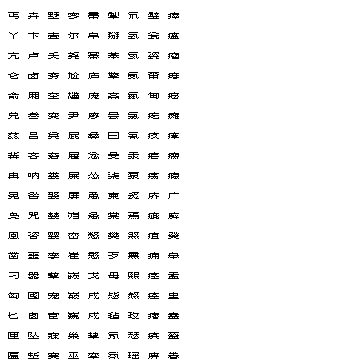
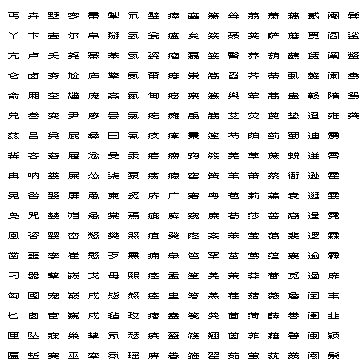
Update to final CCB data.

diff --git a/Scripts/FetchCCB.py b/Scripts/FetchCCB.py
@@ -6,7 +6,7 @@ def main():
     data = [
         ["专业丛东丝丢两严丧个丰临为丽举么义乌乐乒乓乔乖乘习乡书买于亏亚产亩亲仓众伞兔兰关兴养兽冈册军农冤凤凭凳击剪劈办务劳势匀匆华单卖卡卫卷厂厅历厉压厌厕厦县发变叠另吞启吴员咸哥哭售囊团园围图圆圈圣坚垄垒垦垫堡壳壶处备复头夸夹夺奋奖姜孕宁它实审宪宫宽宾寇寨寻导尘尝层岁岂岔岗岛崭已币帘带帮并广庆库应庙废开异弃弯录态怎总恳恶您悬惠惩愿截户扁拜拿摇攀敌敲旁无旱显晓晕晨暂术朵杀杂杰枣查桌桨梦步每毕毙毫毯气氧浆灭灵灾烫热爬爱爷爸爹牵犁狱瓣甩电疆疗疤疮疯疼痒痰瘦皂盏盐监盒盖盘离秃穷窑窗窜窝竖竞竟笋笔笨笼筐筛筝筹签简箩篮类粪粱紧絮继网罗罚罢罩羞羡翅耍聋聚肃肾臂舅舍艺节芒芬苍苏苹范茧茫荐荡荣药莲获菠萍萝营蓝蔬藏虏虑虽蠢衔袭裹见览觉贝贞负贡责贤货质贪贫贯贵贷贸费贺资赏赛赞赢赵赶趁趋趟车轰载辈辜辨辩辫边辽达迁过迈运还这进远违连迟迹适选递遗邀酱鉴铅长门闪闭问闯闲间闷闸闹闻阀阁阅阔隶雹雾霉霸靠页题风饰马驾骂鱼鲁鸟鹰黎黑齐齿龙龟",
          20, 21],
-        ["丐丫亢仑俞兑兹冀冉冕凫凰凿刁匈匕匣匾卉卞卢卤厢叁吕吝呐咎咒咨噩嚣囤囱坠堑墅壹夭夯奎奕奠奢娄娶婪婴孪孽宠宦寐寞寥尔尧尬尴尹屁屉屎屏岿峦崔嵌巅巍巢巫帚帛幂庐庞廖彝忿怂恿惫憋憨戈戌戍挚挛掣掰摹擎斋昙曰曼柒柬棠樊歹毋毖毡氖氛氟氢氦氨氮氯氰汞泵炙焉煞熏熙熬玫瑟瑶璧瓮瓷甭甸疙疚疟疡疥疵疽痈痉痊痞痪痹瘁瘟瘤瘩瘪瘫瘴瘸瘾癞癣癸皋盂盅盎盔眷矗矣磊祟禀禹秉窍窖窘窥窿笆笙笤笺筷箍箫篆篓篙篡篱篷簇簧粤糜紊罕羌羔羹翘翟耸聂臀舀舆艾芍芜苇苞苟苯茁茉茬茴茵茹荔荚荞荠荤荧荫荸莆莉莎莹莺莽菇菏菲萤萧萨葫蒂蒿蓖蓟蔗蔡蔫蔷蔼蕴蕾薇薛藉藐藕蘑蘸虱蛊蛰蜀蜕衙袁裔裴襄觅詹誊譬豢贰贾赁赘赣迢迪迸逊逛逞逻逾遏闰闺闽阂阉阎阐阑隋雍雳霄霍霎霓霖霹靡韦韭颖鬃鬓鲨鳖鸯鸳龚", 9, 18]
+        ["丐丫亢仑俞兑兹冀冉冕凫凰凿刁匈匕匣匾卉卞卢卤厢叁吕吝呐咎咒咨噩嚣囤囱坠堑墅壹夭夯奎奕奠奢娄娶婪婴孪孽宠宦寐寞寥尔尧尬尴尹屁屉屎屏岿峦崔嵌巅巍巢巫帚帛幂庐庞廖彝忿怂恿惫憋憨戈戌戍挚挛掣掰摹擎斋昙曰曼柒柬棠樊歹毋毖毡氖氛氟氢氦氨氮氯氰汞泵炙焉煞熏熙熬玫瑟瑶璧瓮瓷甭甸疙疚疟疡疥疵疽痈痉痊痞痪痹瘁瘟瘤瘩瘪瘫瘴瘸瘾癞癣癸皋盂盅盎盔眷矗矣磊祟禀禹秉窍窖窘窥窿笆笙笤笺筷箍箫篆篓篙篡篱篷簇簧粤糜紊罕羌羔羹翘翟耸聂臀舀舆艾芍芜苇苞苟苯茁茉茬茴茵茹荔荚荞荠荤荧荫荸莆莉莎莹莺莽菇菏菲萤萧萨葫蒂蒿蓖蓟蔗蔡蔫蔷蔼蕴蕾薇薛藉藐藕蘑蘸虱蛊蛰蜀蜕衙袁裔裴襄觅詹誊譬豢贰贾赁赘赣迢迪迸逊逛逞逻逾遏闰闺闽阂阉阎阐阑隋雍雳霄霍霎霓霖霹靡韦韭颖鬃鬓鲨鳖鸯鸳龚", 18, 18]
     ]
 
     for i in range(0, len(data)):
